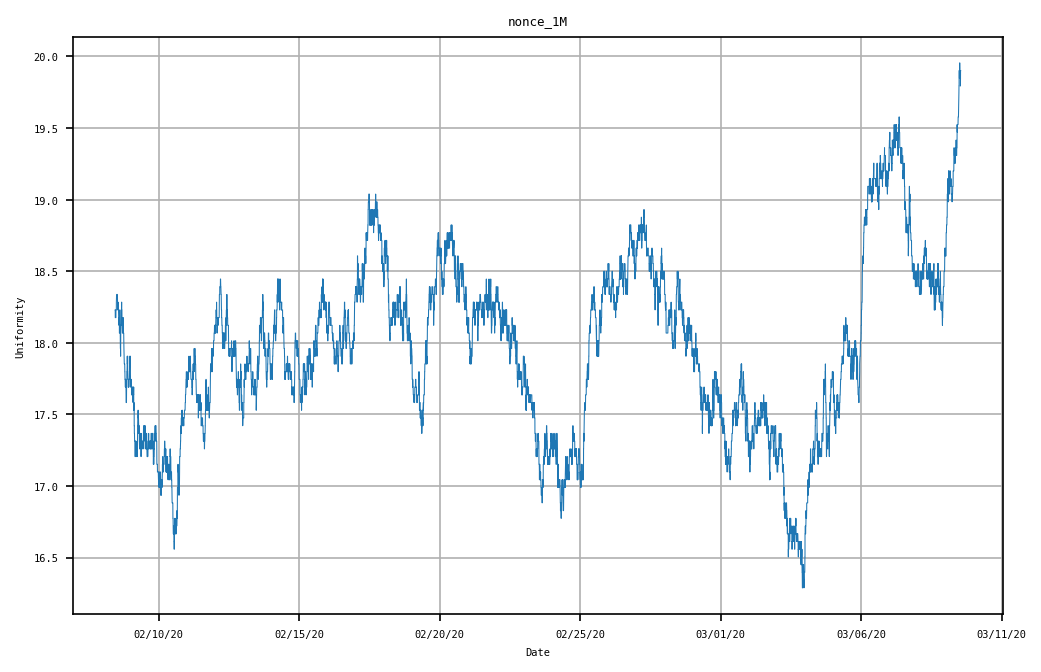
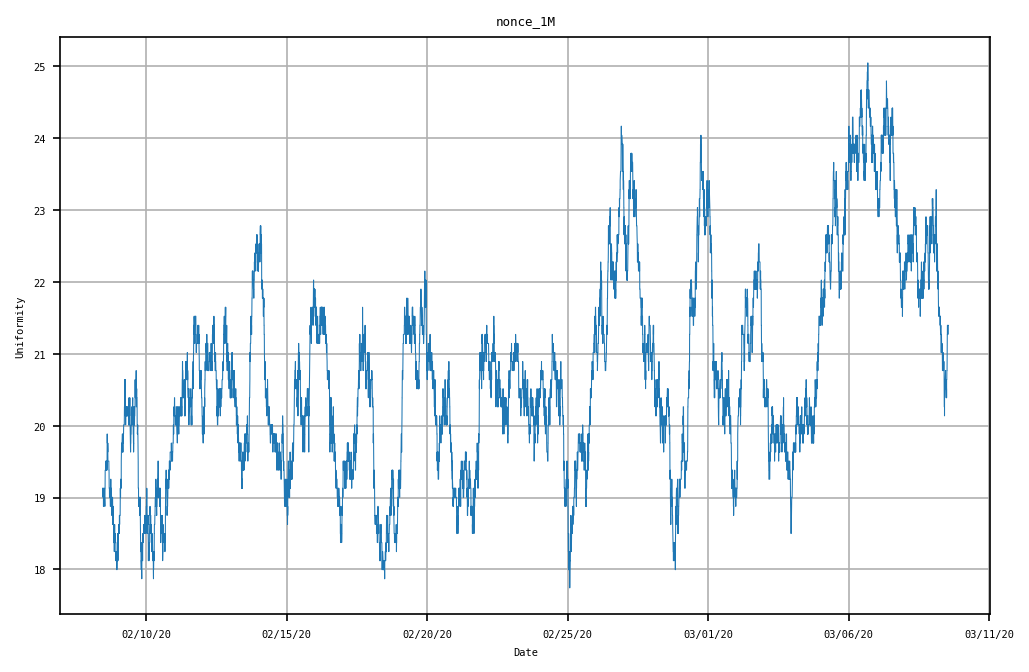
save test

diff --git a/templates/explore.html b/templates/explore.html
@@ -88,7 +88,7 @@ Statistics and charts for the Monero network. Please note that many of the chart
     <td>Nonce Uniformity: </td>
     <td>%{{data[11]}} </td>
     <td><a href="#nonce_1M">1M</a> <a href="#nonce_1Y">1Y</a> <a href="#nonce_all">All</a></td>
-    <td align ="center">The uniformity of the previous 720 blocks' nonces.</td>
+    <td align ="center">The uniformity of the previous 2160 blocks' (~3 days) nonces.</td>
 </tr>
 <tr>
     <td>Block Count Per Day: </td>

diff --git a/history.py b/history.py
@@ -36,7 +36,7 @@ def get_blocks():
     fees = deque([])
     block_sizes = deque([])
     nonce_geo = deque([])
-    bin_size = int((2**32)/(720*7))
+    bin_size = int((2**32)/(720*3))
     bin_count = [0 for i in range((2**32)//(bin_size)+1)]
     unique_bins = 0
     reward_1y = 0
@@ -100,14 +100,14 @@ def get_blocks():
             unique_bins += 1 
         elif bin_count[nonce] == 2:
             unique_bins -= 1 
-        if len(nonces)> 720*7:    
+        if len(nonces)> 720*3:    
             nonce = nonces.popleft()    
             bin_count[nonce] -= 1
             if bin_count[nonce] == 1:
                 unique_bins += 1 
             elif bin_count[nonce] == 0:
                 unique_bins -= 1 
-        block['nonce'] = exp(1)*100*(unique_bins)/(720*7)
+        block['nonce'] = exp(1)*100*(unique_bins)/(720*3)
         
         for i in range(len(out)):
             out[i].append(list(block.values())[i])

diff --git a/update.py b/update.py
@@ -3,8 +3,8 @@ from chart import build_chart
 from cache import update_latest, cache_blocks, cache_price
 import gc
 
-cache_blocks()
-cache_price()
+#cache_blocks()
+#cache_price()
 
 data = get_blocks()
 timestamp = data.pop(0)
